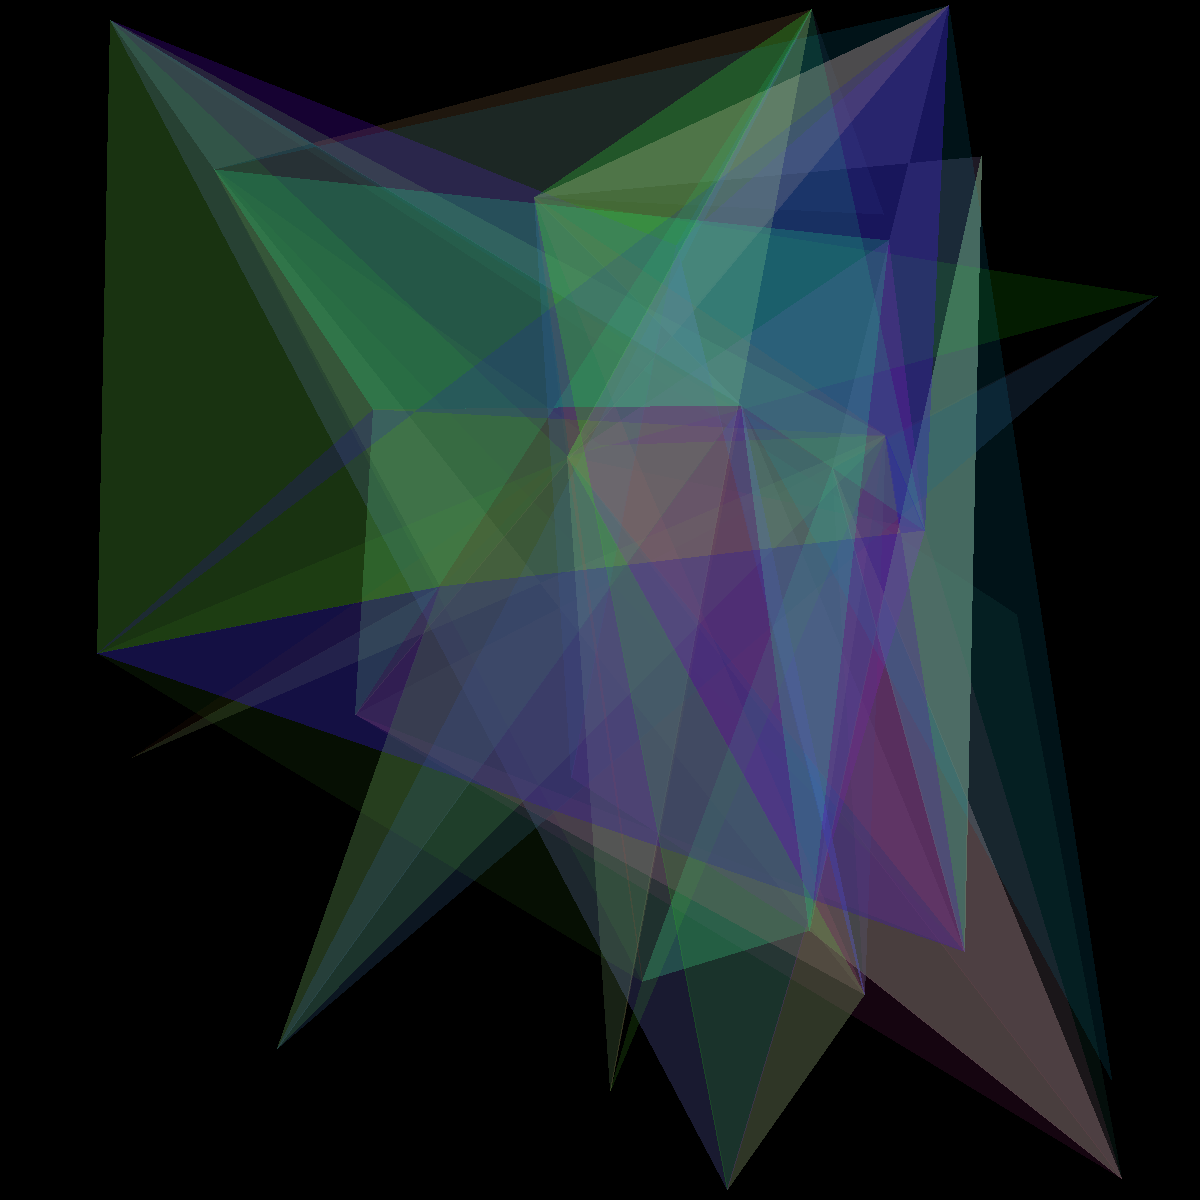
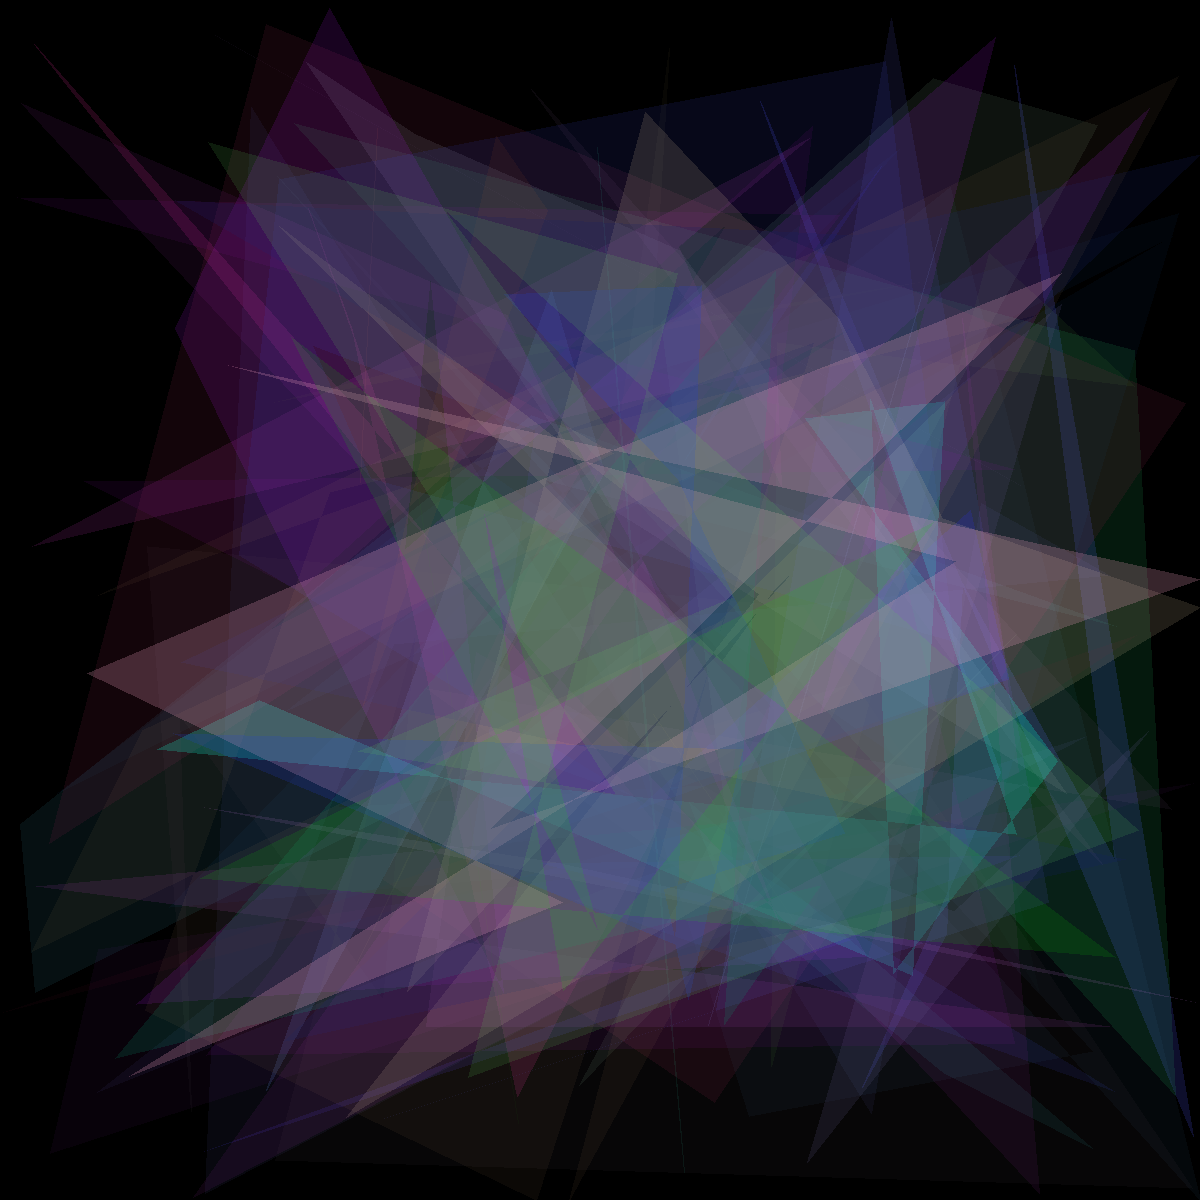
updating hyperparameters

diff --git a/monalisa.py b/monalisa.py
@@ -51,18 +51,18 @@ class PolygonImage(Individual):
         super().__init__(genome, fitness)
 
 
-        self.mutation_rates = {"add_polygon": 0.125,
-                               "remove_polygon": 0.0625,
-                               "move_polygon": 0.125,
-                               "add_point": 0.0625,
-                               "remove_point": 0.0625,
-                               "large_point_change": 0.0625,
-                               "medium_point_change": 0.0625,
-                               "small_point_change": 0.0625,
-                               "mutate_red": 0.0625,
-                               "mutate_green": 0.0625,
-                               "mutate_blue": 0.0625,
-                               "mutate_alpha": 0.0625}
+        self.mutation_rates = {"add_polygon": 0.0015,
+                               "remove_polygon": 0.00067,
+                               "move_polygon": 0.0015,
+                               "add_point": 0.00067,
+                               "remove_point": 0.00067,
+                               "large_point_change": 0.00067,
+                               "medium_point_change": 0.00067,
+                               "small_point_change": 0.00067,
+                               "mutate_red": 0.00067,
+                               "mutate_green": 0.00067,
+                               "mutate_blue": 0.00067,
+                               "mutate_alpha": 0.00067}
         self.min_points_per_polygon = 3
         self.max_points_per_polygon = 10
         self.mutation_ranges = {
